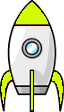
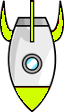
draw enemy

diff --git a/models.py b/models.py
@@ -1,11 +1,26 @@
 import arcade.key
 
+class Model:
+	def __init__(self,world,x,y):
+		self.world = world
+		self.x = x
+		self.y = y
+
+class Charactor(Model):
+	def __init__(self, world, x, y):
+		super().__init__(world,x,y)
+		self.world = world
+		self.x = x
+		self.y = y
+
+
 class World:
 	def __init__(self, width, height):
 		self.width = width
 		self.height = height
 
 		self.player = Player(self, width/2 , 0)
+		self.enemy = Enemy(self, width/2, height)
 
 	def animate(self, delta):
 		self.player.animate(delta)
@@ -23,13 +38,14 @@ class World:
 				self.player.isPress = False
 				self.player.switch_direction("still")
 
-class Player:
+class Player(Charactor):
 	DIR_LEFT = -1
 	DIR_STILL = 0
 	DIR_RIGHT = 1
 	isPress = False
 
 	def __init__(self, world, x, y):
+		super().__init__(world,x,y)
 		self.world = world
 		self.x = x
 		self.y = y
@@ -54,3 +70,11 @@ class Player:
 			self.direction = Player.DIR_RIGHT
 		elif new_direction == "still":
 			self.direction = Player.DIR_STILL
+
+class Enemy(Charactor):
+	def __init__(self, world, x, y):
+		super().__init__(world,x,y)
+		self.world = world
+		self.x = x
+		self.y = y
+

diff --git a/shootAndFlee.py b/shootAndFlee.py
@@ -29,10 +29,13 @@ class SpaceGameWindow(arcade.Window):
     	
     	self.world = World(width, height)
     	self.player_sprite = ModelSprite('images/rocket1.png',model=self.world.player)
+    	self.enemy_sprite = ModelSprite('images/rocket2.png',model=self.world.enemy)
+
 
     def on_draw(self):
     	arcade.start_render()
     	self.player_sprite.draw()
+    	self.enemy_sprite.draw()
 
     def animate(self, delta):
     	self.world.animate(delta)
